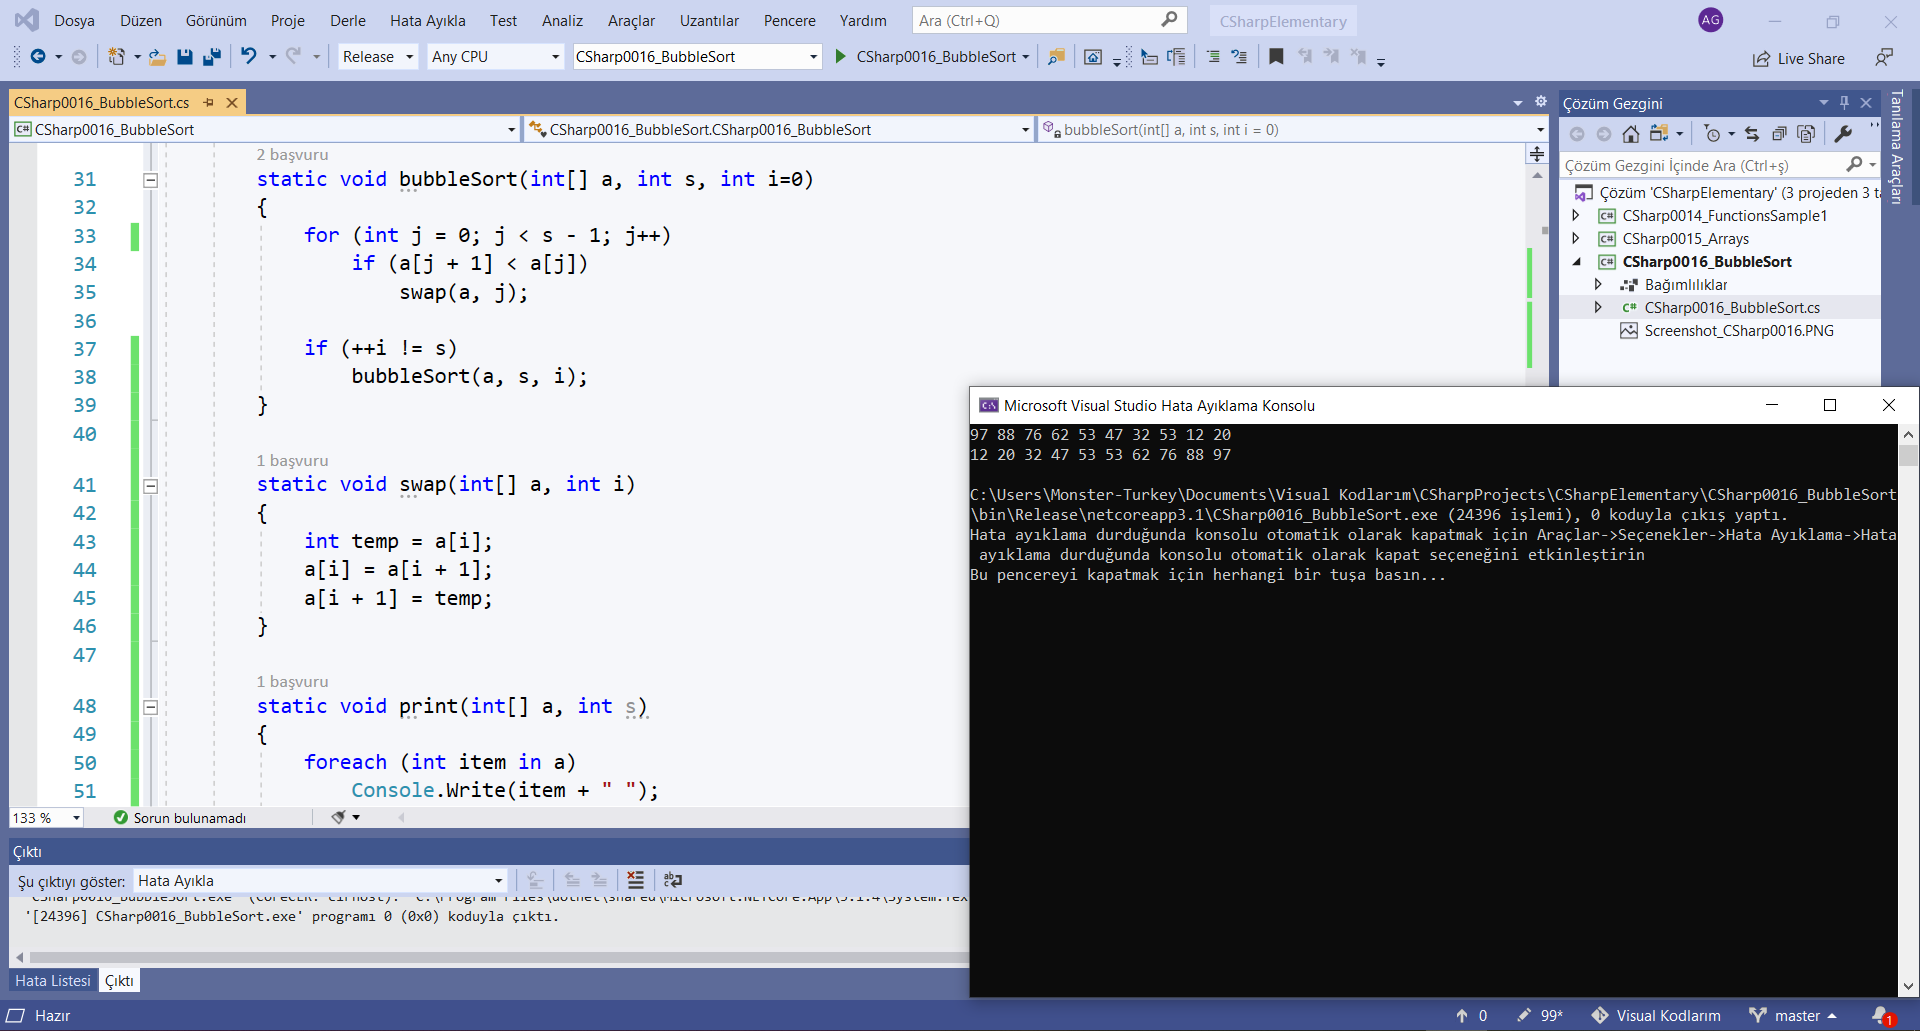
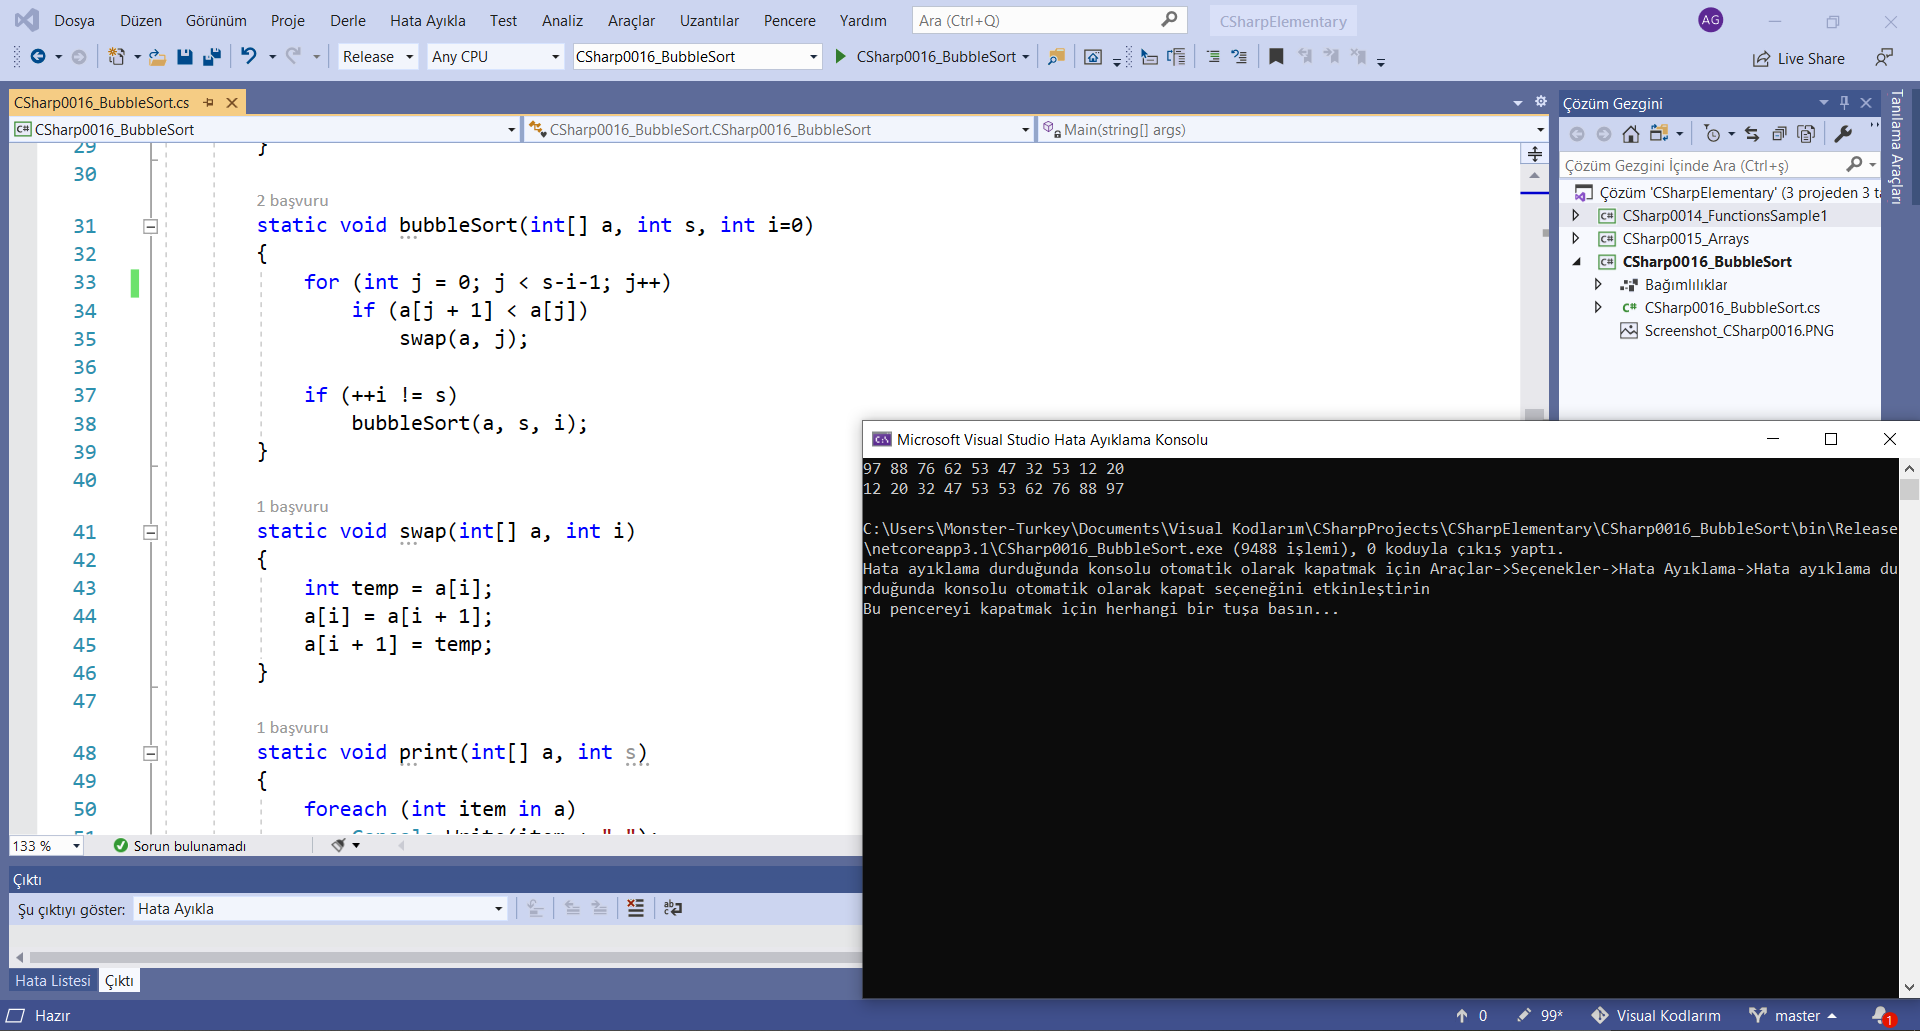
initial commit

diff --git a/CSharp0016_BubbleSort.cs b/CSharp0016_BubbleSort.cs
@@ -30,7 +30,7 @@ namespace CSharp0016_BubbleSort
 
         static void bubbleSort(int[] a, int s, int i=0)
         {
-            for (int j = 0; j < s - 1; j++)
+            for (int j = 0; j < s-i-1; j++)
                 if (a[j + 1] < a[j])
                     swap(a, j);
 
